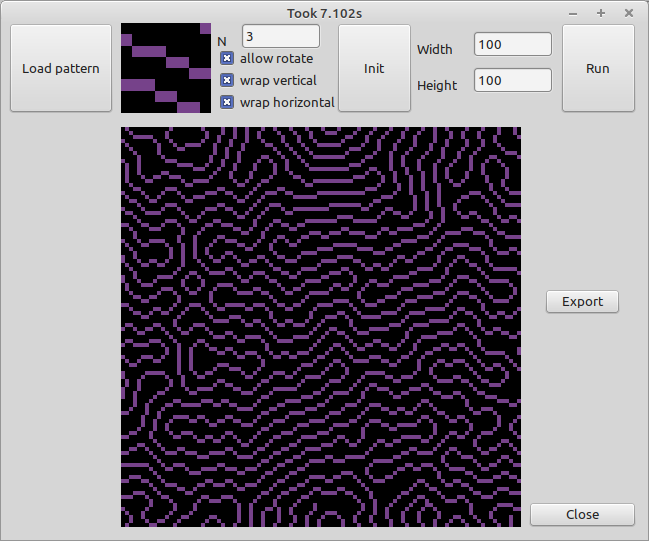
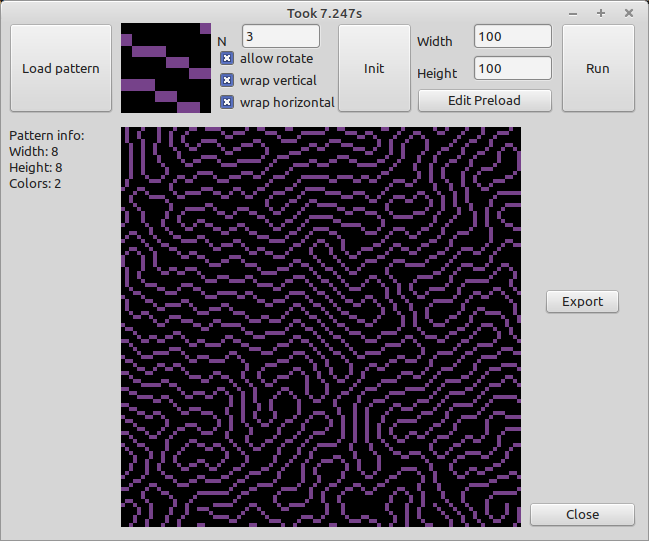
ADD: More Docu to "N-Parameter"

diff --git a/Wave_function_collapse/Overlap_model/Readme.md b/Wave_function_collapse/Overlap_model/Readme.md
@@ -18,12 +18,43 @@ Before diving into the code i highly recommend to read the explanations from abo
 
   | Parameter | Description |
   | --- | --- |
-  | N | Affects the detailgrade of the subpatterns, typically you should set N somewhere between 2 and 7 (for the most sample images use 3) <br> if set to small it could be, that you get garbage, if set to big you maybe could not get enough "new" content
+  | N | Affects the detailgrade of the subpatterns,  <br> if set to small it could be, that you get garbage, if set to big you maybe could not get enough "new" content (see table below for more infos)
   |allow rotate | if set, the source pattern can "Rotate" freely, otherwise not (best to test with "demo-1.png")
   | wrap vertical | if not checked, the pattern can not cross the bottom / top border (test with "demo-flowers.png"). Disables allow rotate <br> ! Attention !<br> in order to work properly the image should not contain "pixels" that are used in the last row of the image
   | wrap horizontal | if not checked, the pattern can not cross the right / left border (test with "demo-flowers2.png"). Disables allow rotate <br> ! Attention !<br> in order to work properly the image should not contain "pixels" that are used in the last column of the image
 
-3.  Hit int button and wait until initialization is finished (this can take quit long if N is large)
-4.  Define output width and height (typically ~40, but the only limit is the RAM of your machine and the time you want to wait until it is finished)
-5.  Hit run and enjoy image creation.
+3.  Hit "Init" button and wait until initialization is finished (this can take quit long if N is large)
+4.  Define output width and height (typically ~40, but the only limit is the RAM of your machine and the time you want to wait until it is finished) or use the "Edit Preload" button to define preset cell values.
+5.  Hit "Run" and enjoy image creation (after initialized once you can hit "Run" multiple times without the need to re Init).
 
+## N - Parameter
+As far as i can tell, N makes only sense in the Range: N = 2 up to N = Pattern.Width / 2 (which makes sense if you look from the "wave" viewpoint).
+
+For better demonstration look at this picture ![](data/houses.png) its dimension is 20 x 20 pixels. The table below shows the used N and the corresponding image in the grid below. All Images with N = 11 to 20 are "shifts" of more or less the same image (you can proof that by laying them over each other in a image editor).
+
+All Images are created using: 
+- allow rotate = off
+- wrap vertical = on
+- wrap horizontal = on
+
+The following table shows the N used for the image creation
+  N |    |    |    |    |
+ -- | -- | -- | -- | -- 
+  1 |  2 |  3 |  4 |  5
+  6 |  7 |  8 |  9 | 10
+ 11 | 12 | 13 | 14 | 15
+ 16 | 17 | 18 | 19 | 20
+
+![](results/houses_N1_to_20.png)
+
+Image creation took around something in the range from 4sec up to 30sec per image.
+
+When allowing rotations the correct value of N is even more important, to demonstrate this i allowed rotation and tested again with different N values. In braket is the time it took to create the image on my machine.
+
+
+|  N |  3 (0:40min) |  4 (0:47min) |  5 (2:18min) |  6 (6:26min) |  7 (11:34min) |
+| -- | :-: | :-: | :-: | :-: | :-: 
+|    | ![](results/rotate_N3.png) | ![](results/rotate_N4.png) | ![](results/rotate_N5.png) | ![](results/rotate_N6.png) | ![](results/rotate_N7.png) |
+
+
+Disallowing wraping makes no sense with the houses image, as to "Disable" wrapping it is crucial that the right / bottom line of the pattern holds pixel colors which are not part of the rest of the image!
